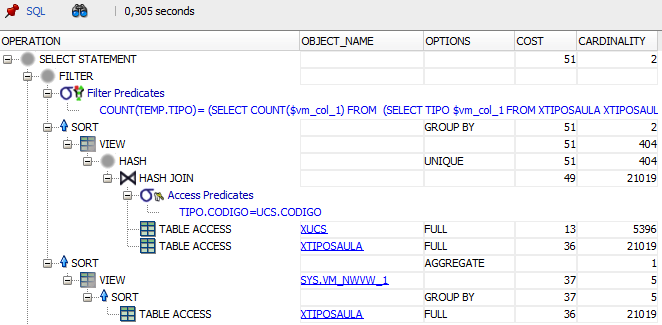
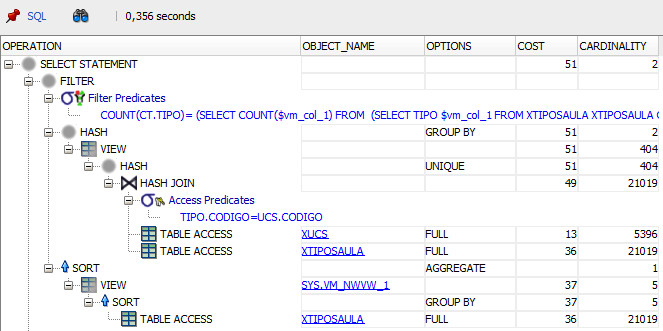
Update exec plans for question6

diff --git a/Assignment1/question6/question6.md b/Assignment1/question6/question6.md
@@ -7,7 +7,7 @@ Our first approach is rather simple: count the number of distinct types of class
 ### Query
 ```sql
 SELECT
-    temp.curso
+    ct.curso
 FROM (
     SELECT DISTINCT
         ucs.curso,
@@ -16,17 +16,15 @@ FROM (
         XUCS ucs
     JOIN
         XTIPOSAULA tipo ON
-            tipo.codigo = ucs.codigo) temp
+            tipo.codigo = ucs.codigo) ct
 HAVING
-    COUNT(temp.tipo) = (
+    COUNT(ct.tipo) = (
         SELECT 
             COUNT(DISTINCT tipo)
         FROM 
             XTIPOSAULA)
 GROUP BY
-    temp.curso
-ORDER BY
-    temp.curso;
+    ct.curso;
 ```
 
 ### Answer
@@ -34,12 +32,14 @@ ORDER BY
 
 ### Execution Plans
 ![Execution Plan for X tables](optionA/exec_plan_X.png "Execution Plan for X tables")
+
 ![Execution Plan for Y tables](optionA/exec_plan_Y.png "Execution Plan for Y tables")
+
 ![Execution Plan for Z tables](optionA/exec_plan_Z.png "Execution Plan for Z tables")
 
 ## Option B
-Our second approach is way more complex. It is heavily based on set theory. We start by creating a set with all possible pairs of program and type of class. Afterwards, we subtract this set by the set of pairs which are actually stored on the database. The resulting set is made of all pairs that had to exist in order to all programs to have classes of all types. This means that the programs which already have all types of classes are removed by subtracting the two sets. Based on this, we subtract the set of all programs on the database by the set of programs that were part of the subtraction made before and we end up with the answer.  
-Translating this to SQL took a bit of effort, but the end result actually checks that the programs have every type instead of counting them. However, this query takes approximately 10 minutes to run, which means it is around 600x slower than option A. 
+Our second approach is way more complex. It is heavily based on set theory. We start by creating a set with all possible pairs of program and type of class. Afterwards, we subtract this set by the set of pairs which are actually stored on the database. The resulting set is made of all pairs that should to exist in order for all programs to have classes of all types. This means that the programs which already have all types of classes are removed by subtracting the two sets. Based on this, we subtract the set of all programs on the database by the set of programs that were part of the subtraction made before and we end up with the answer.  
+Translating this to SQL took a bit of effort, but the end result actually checks that the programs have every type instead of counting them. However, this query takes approximately 6 minutes to run, which is a lot slower than option A. 
 
 ### Query
 ```sql
@@ -67,13 +67,11 @@ WHERE
                     XUCS ucs
                 JOIN
                     XTIPOSAULA tipo ON
-                        tipo.codigo = ucs.codigo))
-ORDER BY
-    uc.curso;
+                        tipo.codigo = ucs.codigo));
 ```
 
 ### Answer
-![Question 6 Answer](answer.png "Question 6 Answer")
+![Question 6 Answer](optionB/answer.png "Question 6 Answer")
 
 ### Execution Plans
 ![Execution Plan for X tables](optionB/exec_plan_X.png "Execution Plan for X tables")
